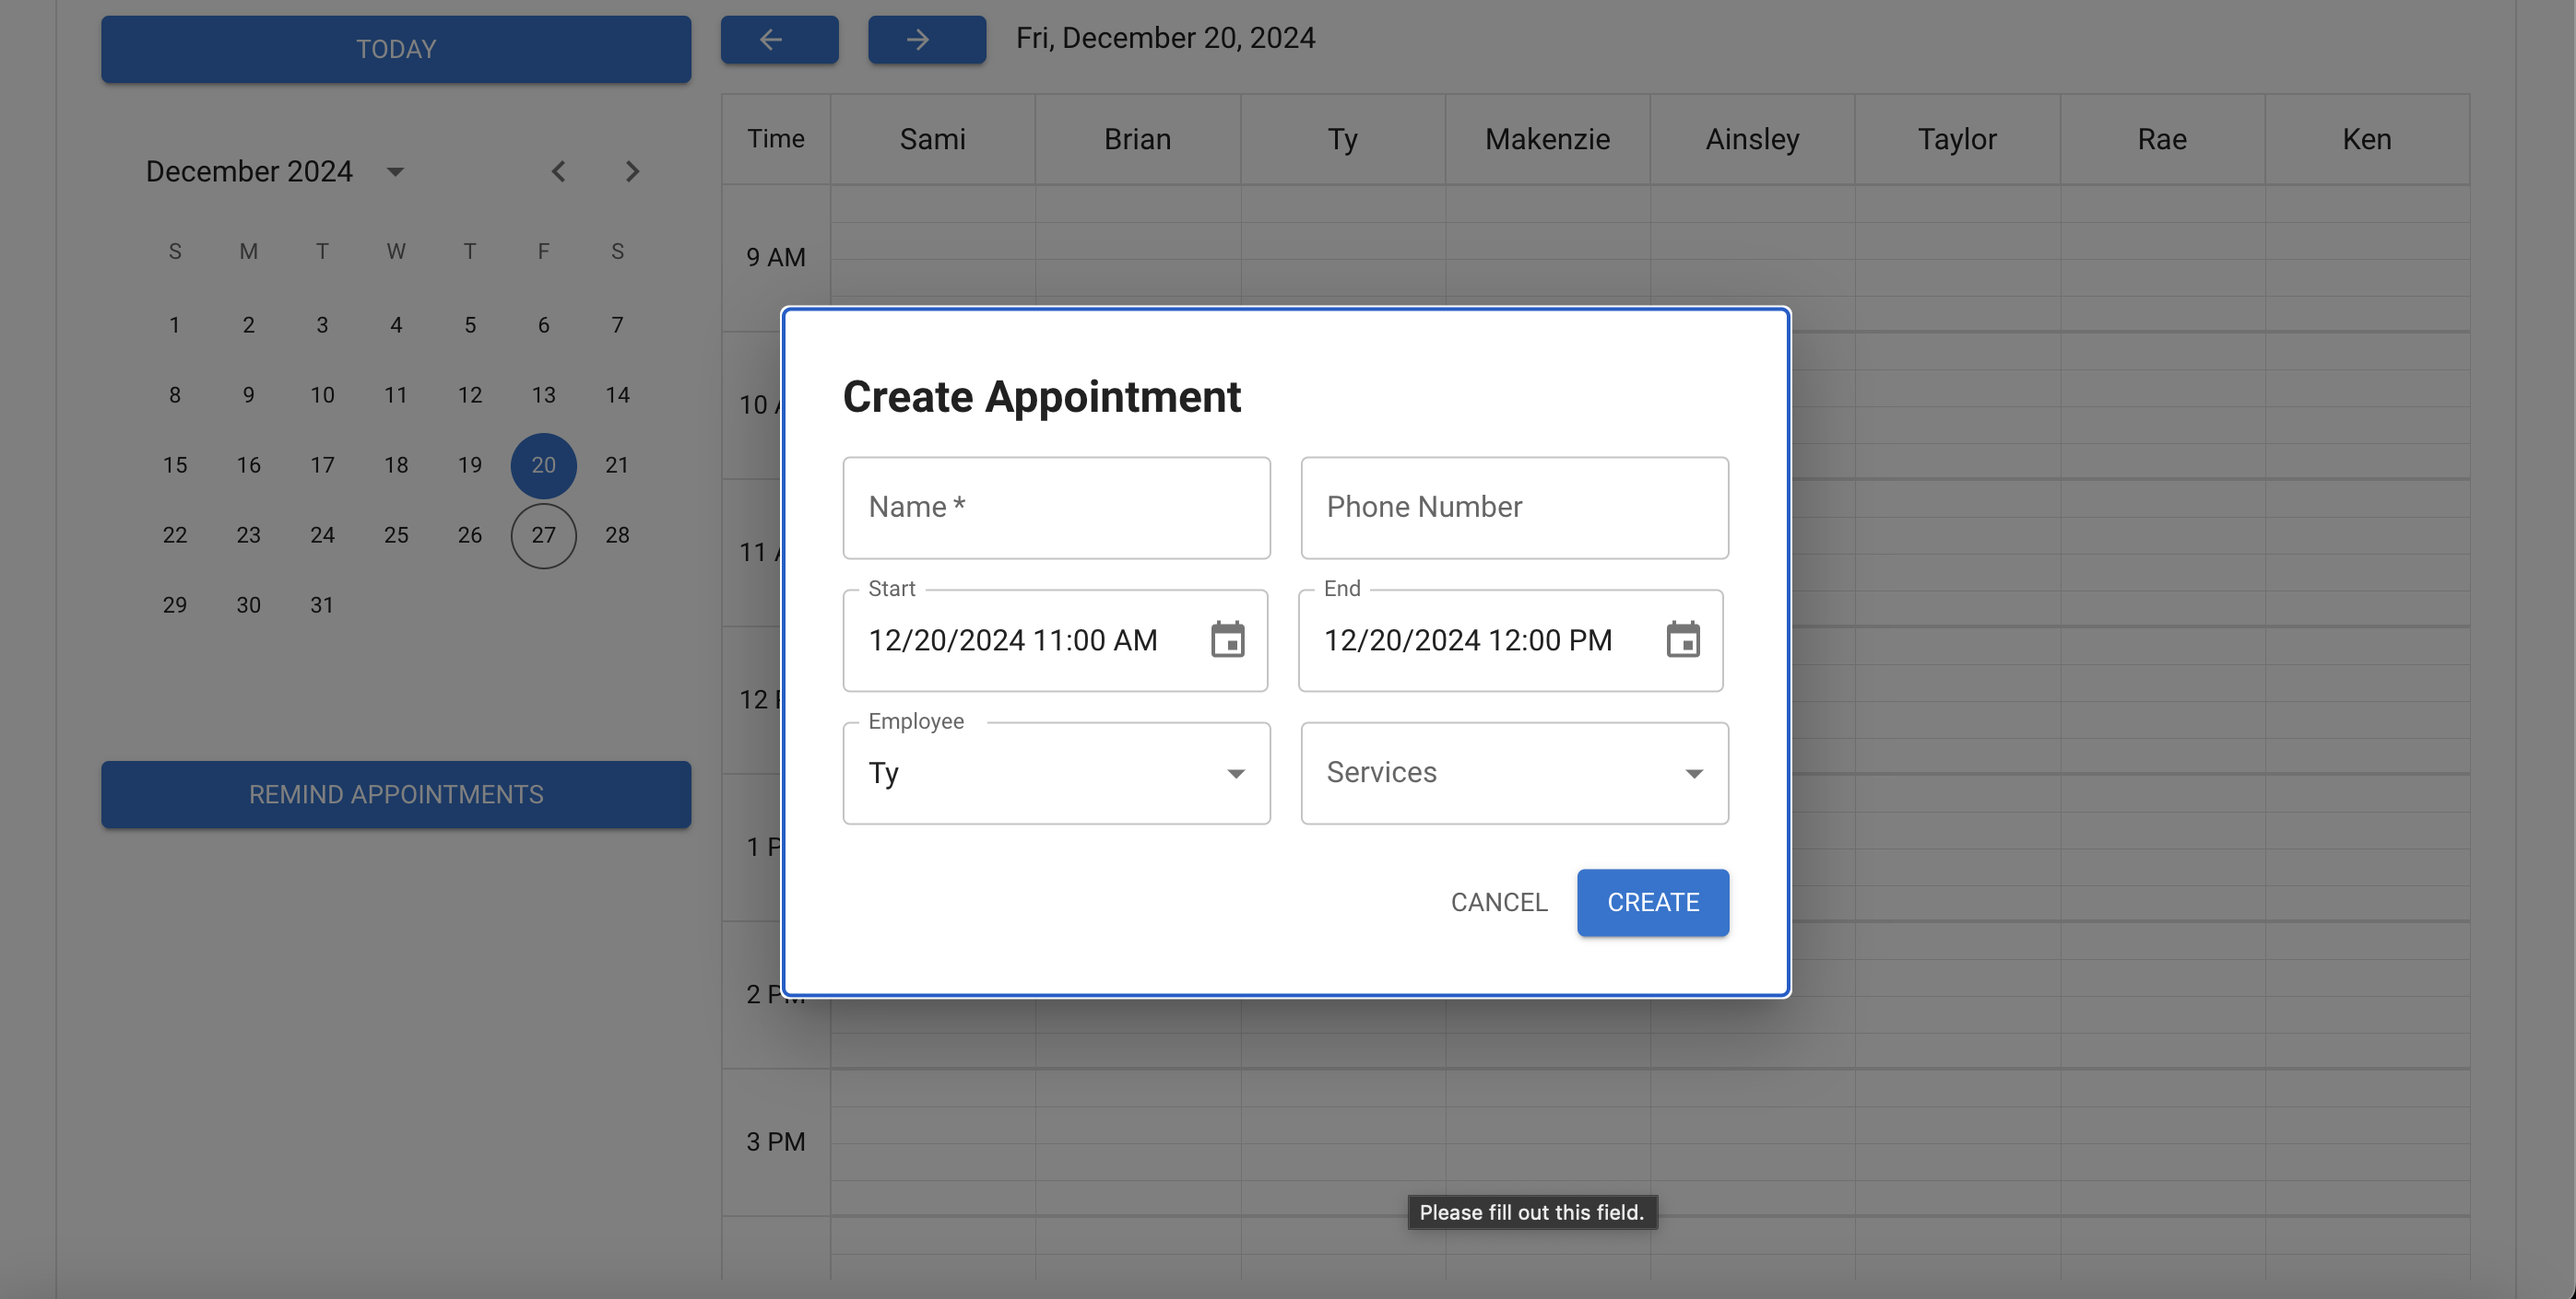
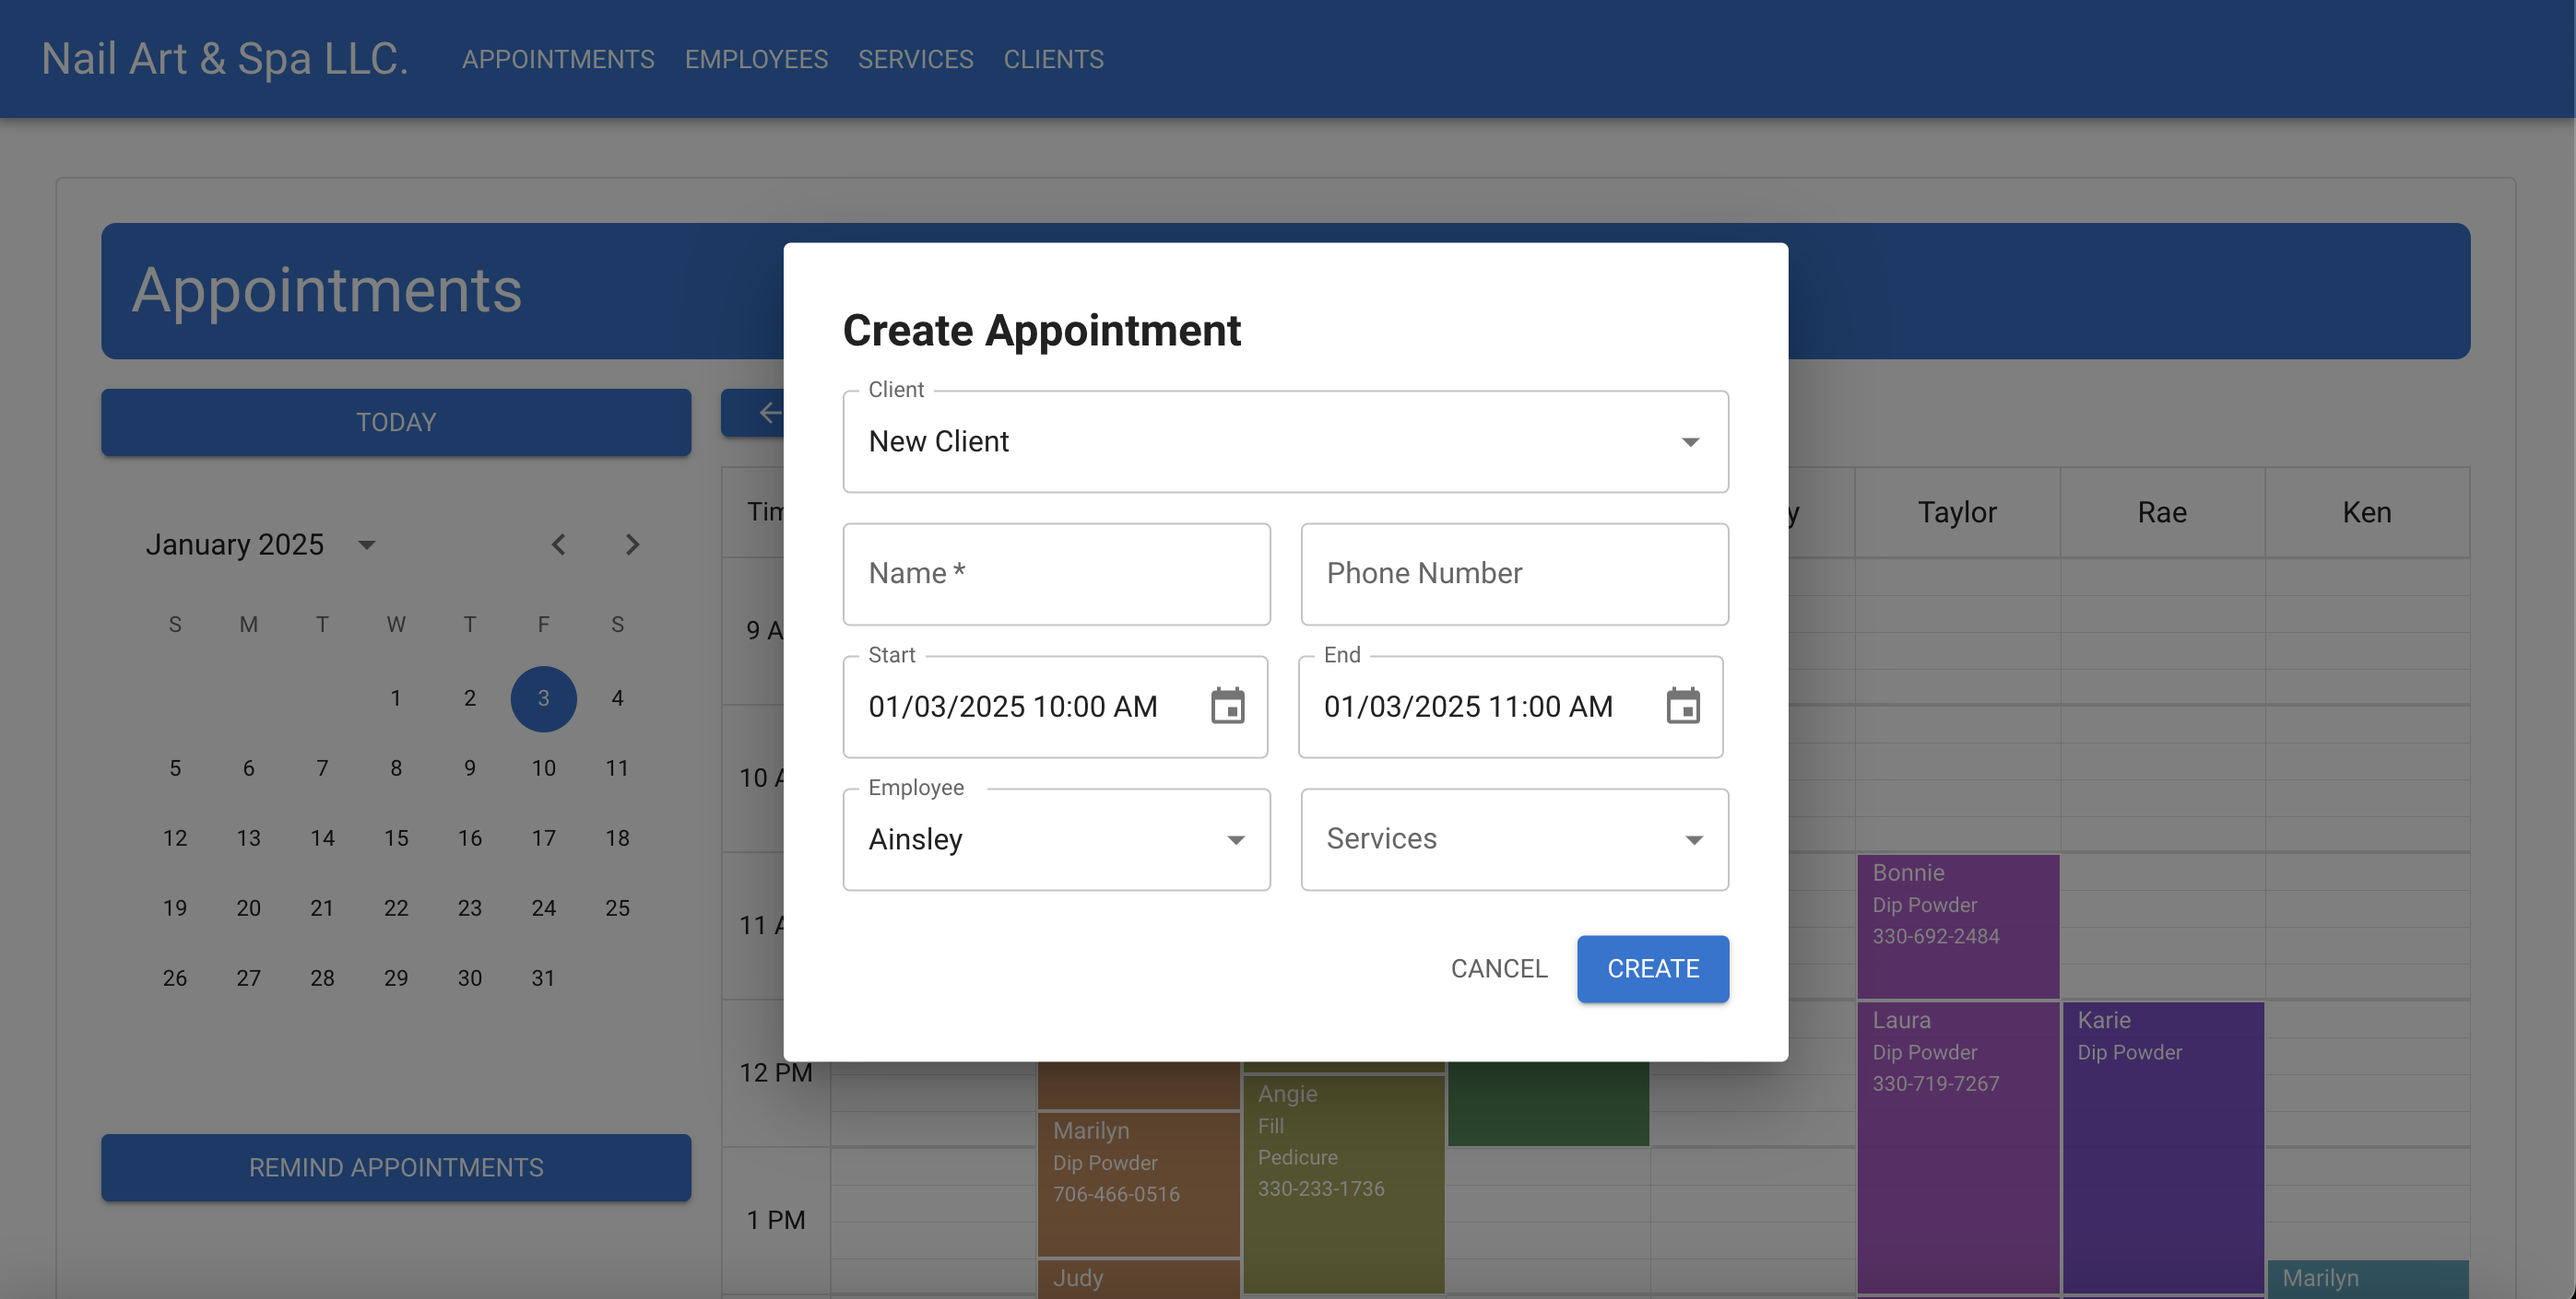
Update README.md

diff --git a/README.md b/README.md
@@ -26,7 +26,7 @@ Another very important feature of this application is actually the 'Remind Appoi
 
 With this page, the user is able to create an appointment by clicking and holding where the appointment will being, and dragging and releasing where they want the appointment to end.
 
-Once the user releases, a modal will open for them to create an appointment where they will be prompted to fill in the necessary fields:
+Once the user releases, a modal will open for them to create an appointment where they will be prompted to fill in the necessary fields. It also comes with a client dropdown where the user can search for an existing client and it will autofill their name and phone number:
 
 ![Create-Appointment-Modal](./images/create-appointment-modal.png)
 
@@ -53,3 +53,9 @@ This page is a simple CRUD page for the employees where the user can do all oper
 Similarly to the employees page, this page is for the services.
 
 ![Services](./images/services.png)
+
+### Clients
+
+I've also added a clients page where the user can search, edit, delete, and create clients. These clients are actually linked to their appointments to help with an autofill feature.
+
+![Clients](./images/clients.png)
